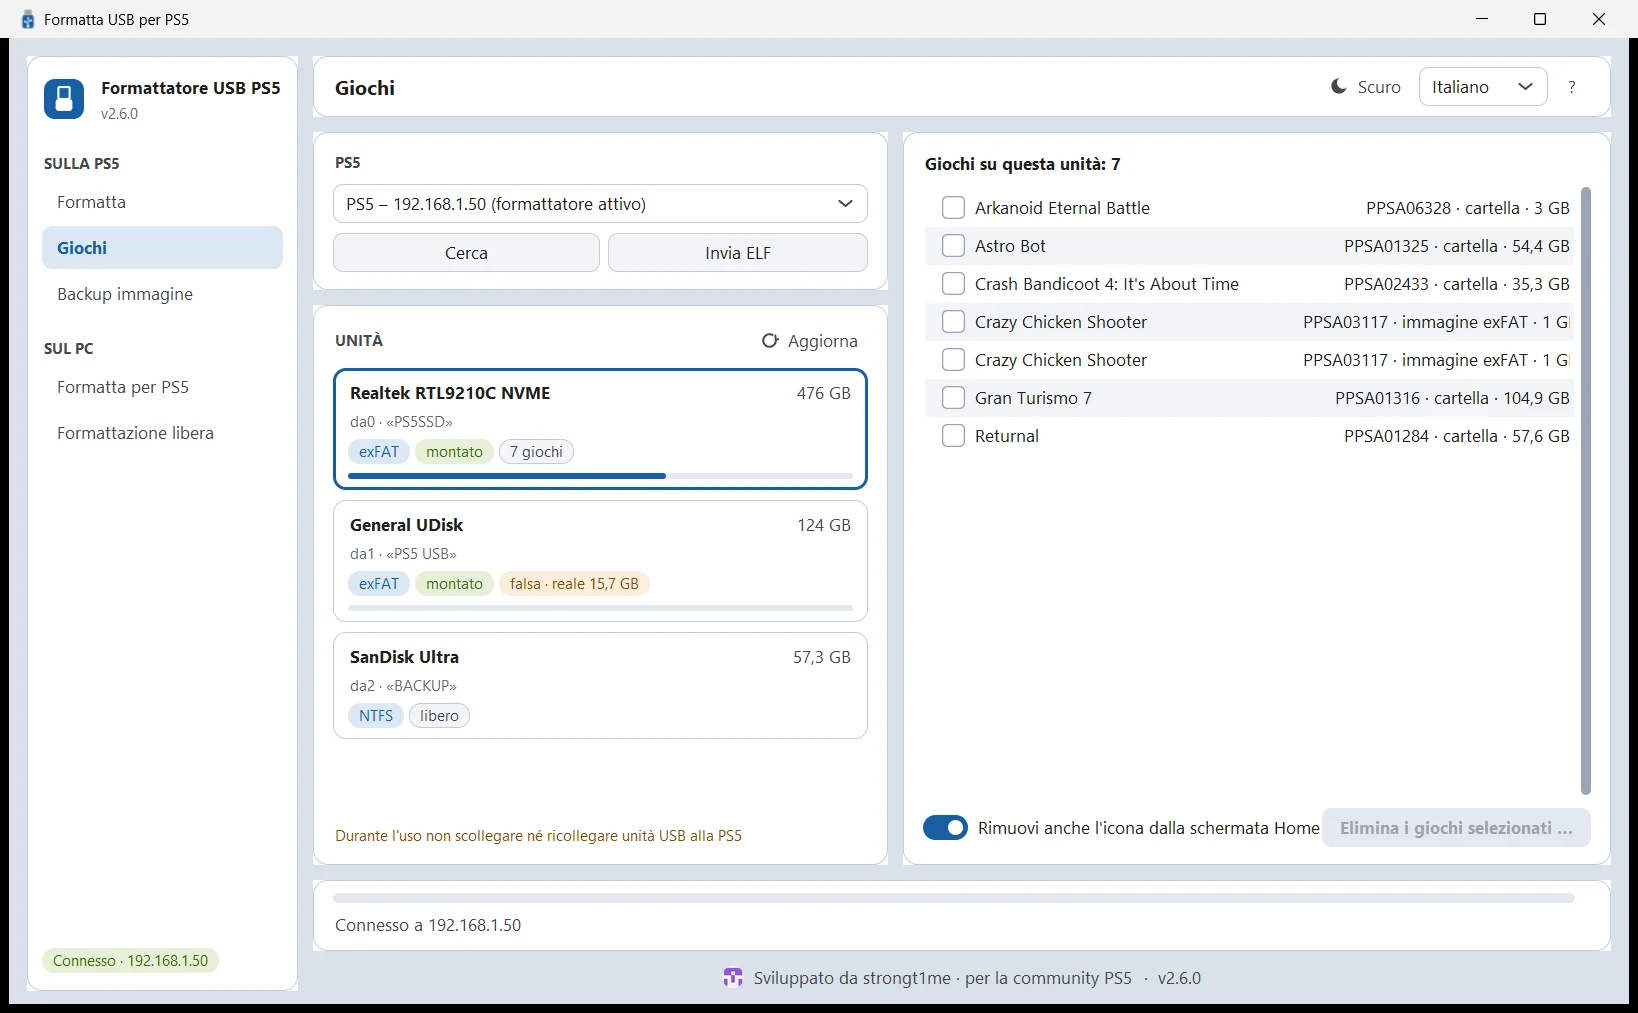
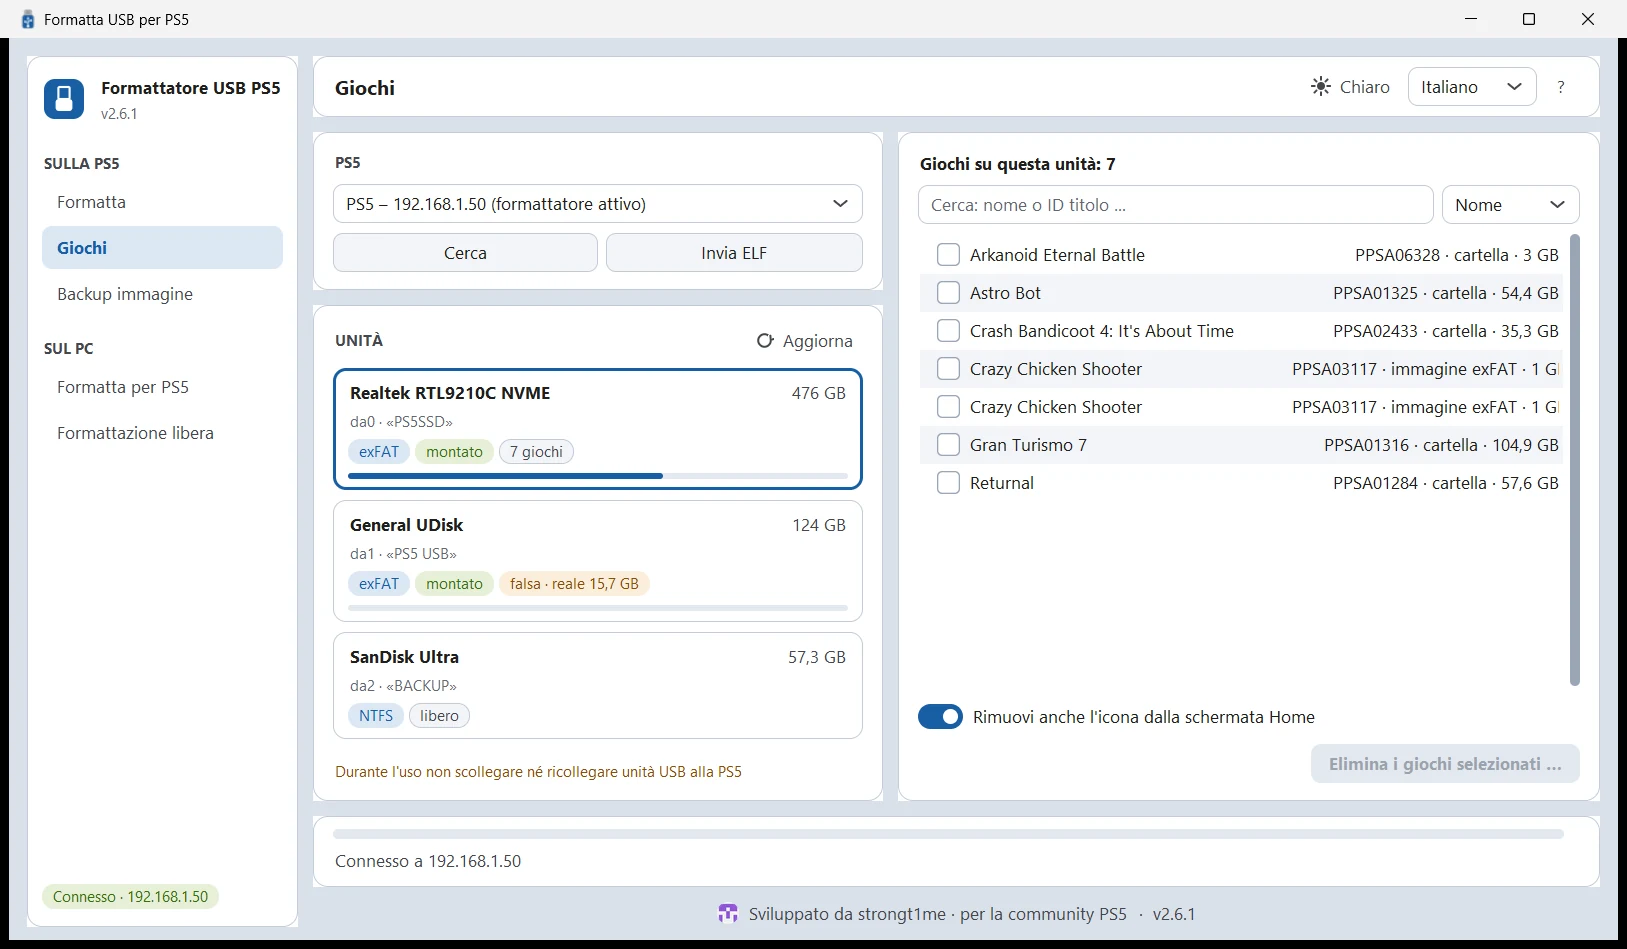
2.6.1: Sicherungen auf der PS5 im PC-Programm, Spielesuche, Design Automatisch, Kurzinfos
Version 2.6.1, README-Bilder neu. Inhalt siehe vorigen Commit.

diff --git a/README.es.md b/README.es.md
@@ -7,7 +7,7 @@
 **Formatea pendrives y discos USB – directamente en la PS5 o en el PC.**<br>
 Con prueba de autenticidad y velocidad, copia de imagen, gestión de juegos, todos los sistemas de archivos habituales y particiones propias.
 
-[![Versión](https://img.shields.io/badge/Versi%C3%B3n-2.6.0-185fa5?style=for-the-badge)](../../releases/latest)
+[![Versión](https://img.shields.io/badge/Versi%C3%B3n-2.6.1-185fa5?style=for-the-badge)](../../releases/latest)
 [![Licencia](https://img.shields.io/badge/Licencia-GPL--3.0-6e7781?style=for-the-badge)](LICENSE)
 [![Plataforma](https://img.shields.io/badge/Plataforma-PS5%20%7C%20Windows%20%7C%20Linux-0070d1?style=for-the-badge)](#-descarga)
 [![Idiomas](https://img.shields.io/badge/Idiomas-DE%20%7C%20EN%20%7C%20IT%20%7C%20ES%20%7C%20FR-3b6d11?style=for-the-badge)](#-funciones)

diff --git a/README.fr.md b/README.fr.md
@@ -7,7 +7,7 @@
 **Formatez clés et disques USB – directement sur la PS5 ou sur le PC.**<br>
 Avec test d'authenticité et de vitesse, sauvegarde image, gestion des jeux, tous les systèmes de fichiers courants et vos propres partitions.
 
-[![Version](https://img.shields.io/badge/Version-2.6.0-185fa5?style=for-the-badge)](../../releases/latest)
+[![Version](https://img.shields.io/badge/Version-2.6.1-185fa5?style=for-the-badge)](../../releases/latest)
 [![Licence](https://img.shields.io/badge/Licence-GPL--3.0-6e7781?style=for-the-badge)](LICENSE)
 [![Plateforme](https://img.shields.io/badge/Plateforme-PS5%20%7C%20Windows%20%7C%20Linux-0070d1?style=for-the-badge)](#-téléchargement)
 [![Langues](https://img.shields.io/badge/Langues-DE%20%7C%20EN%20%7C%20IT%20%7C%20ES%20%7C%20FR-3b6d11?style=for-the-badge)](#-fonctions)

diff --git a/README.it.md b/README.it.md
@@ -7,7 +7,7 @@
 **Formatta chiavette e dischi USB – direttamente sulla PS5 o sul PC.**<br>
 Con test di autenticità e velocità, backup immagine, gestione dei giochi, tutti i file system più diffusi e partizioni personalizzate.
 
-[![Versione](https://img.shields.io/badge/Versione-2.6.0-185fa5?style=for-the-badge)](../../releases/latest)
+[![Versione](https://img.shields.io/badge/Versione-2.6.1-185fa5?style=for-the-badge)](../../releases/latest)
 [![Licenza](https://img.shields.io/badge/Licenza-GPL--3.0-6e7781?style=for-the-badge)](LICENSE)
 [![Piattaforma](https://img.shields.io/badge/Piattaforma-PS5%20%7C%20Windows%20%7C%20Linux-0070d1?style=for-the-badge)](#-download)
 [![Lingue](https://img.shields.io/badge/Lingue-DE%20%7C%20EN%20%7C%20IT%20%7C%20ES%20%7C%20FR-3b6d11?style=for-the-badge)](#-funzioni)

diff --git a/README.de.md b/README.de.md
@@ -7,7 +7,7 @@
 **USB-Sticks und -Festplatten formatieren – direkt an der PS5 oder am PC.**<br>
 Mit Echtheits- und Tempotest, Image-Sicherung, Spieleverwaltung, allen gängigen Dateisystemen und eigenen Partitionen.
 
-[![Version](https://img.shields.io/badge/Version-2.6.0-185fa5?style=for-the-badge)](../../releases/latest)
+[![Version](https://img.shields.io/badge/Version-2.6.1-185fa5?style=for-the-badge)](../../releases/latest)
 [![Lizenz](https://img.shields.io/badge/Lizenz-GPL--3.0-6e7781?style=for-the-badge)](LICENSE)
 [![Plattform](https://img.shields.io/badge/Plattform-PS5%20%7C%20Windows%20%7C%20Linux-0070d1?style=for-the-badge)](#-download)
 [![Sprachen](https://img.shields.io/badge/Sprachen-DE%20%7C%20EN%20%7C%20IT%20%7C%20ES%20%7C%20FR-3b6d11?style=for-the-badge)](#-funktionen)

diff --git a/README.md b/README.md
@@ -7,7 +7,7 @@
 **Format USB sticks and drives – directly on the PS5 or on your PC.**<br>
 With authenticity and speed tests, image backup, game management, all common file systems and custom partitions.
 
-[![Version](https://img.shields.io/badge/Version-2.6.0-185fa5?style=for-the-badge)](../../releases/latest)
+[![Version](https://img.shields.io/badge/Version-2.6.1-185fa5?style=for-the-badge)](../../releases/latest)
 [![Licence](https://img.shields.io/badge/Licence-GPL--3.0-6e7781?style=for-the-badge)](LICENSE)
 [![Platform](https://img.shields.io/badge/Platform-PS5%20%7C%20Windows%20%7C%20Linux-0070d1?style=for-the-badge)](#-download)
 [![Languages](https://img.shields.io/badge/Languages-DE%20%7C%20EN%20%7C%20IT%20%7C%20ES%20%7C%20FR-3b6d11?style=for-the-badge)](#-features)
